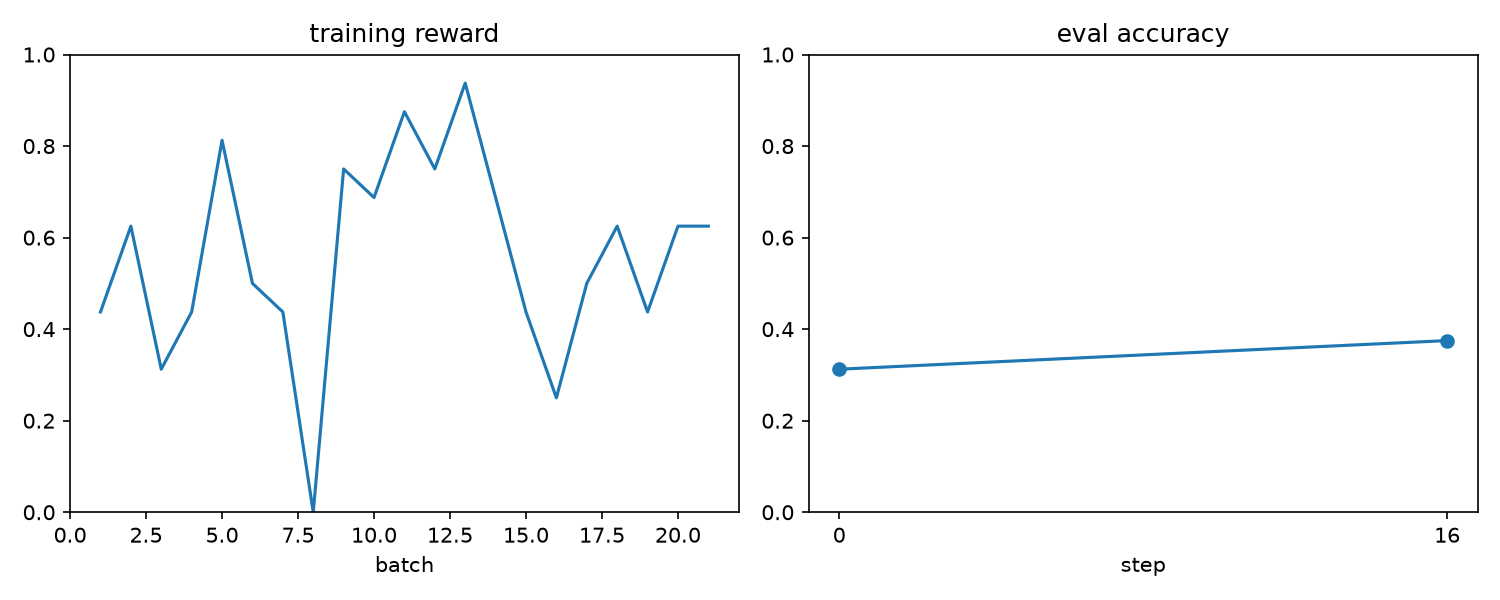
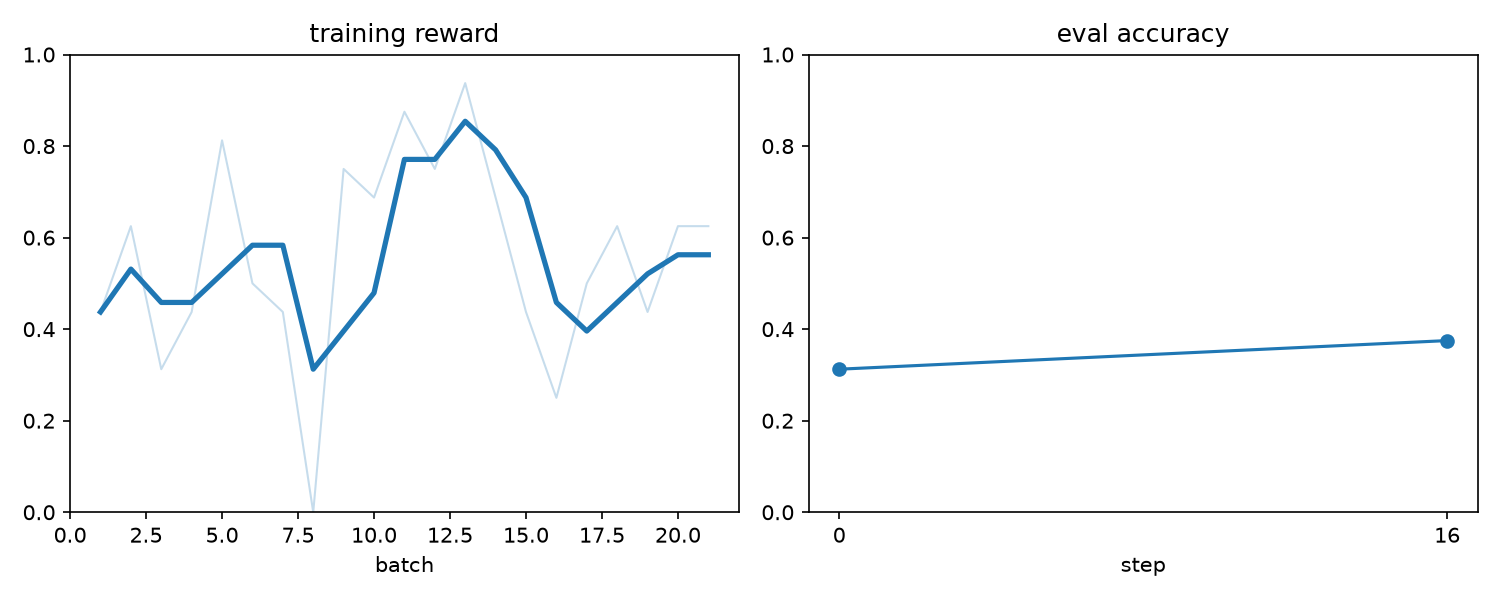
Overlay smoothed GEO3K training reward

diff --git a/.github/validation/tinker-geo3k/plot.py b/.github/validation/tinker-geo3k/plot.py
@@ -9,7 +9,11 @@ root = Path(__file__).resolve().parent
 data = json.loads((root / 'plot-data.json').read_text())
 plt.style.use('default')
 fig, axes = plt.subplots(1, 2, figsize=(10, 4))
-axes[0].plot([x['batch'] for x in data['train']], [x['reward'] for x in data['train']])
+batches = [x['batch'] for x in data['train']]
+rewards = [x['reward'] for x in data['train']]
+smoothed = [sum(rewards[max(0, i - 2):i + 1]) / len(rewards[max(0, i - 2):i + 1]) for i in range(len(rewards))]
+axes[0].plot(batches, rewards, color='C0', alpha=0.25, linewidth=1)
+axes[0].plot(batches, smoothed, color='C0', linewidth=2.5)
 axes[0].set_title('training reward')
 axes[0].set_xlabel('batch')
 axes[0].set_ylim(0, 1)
